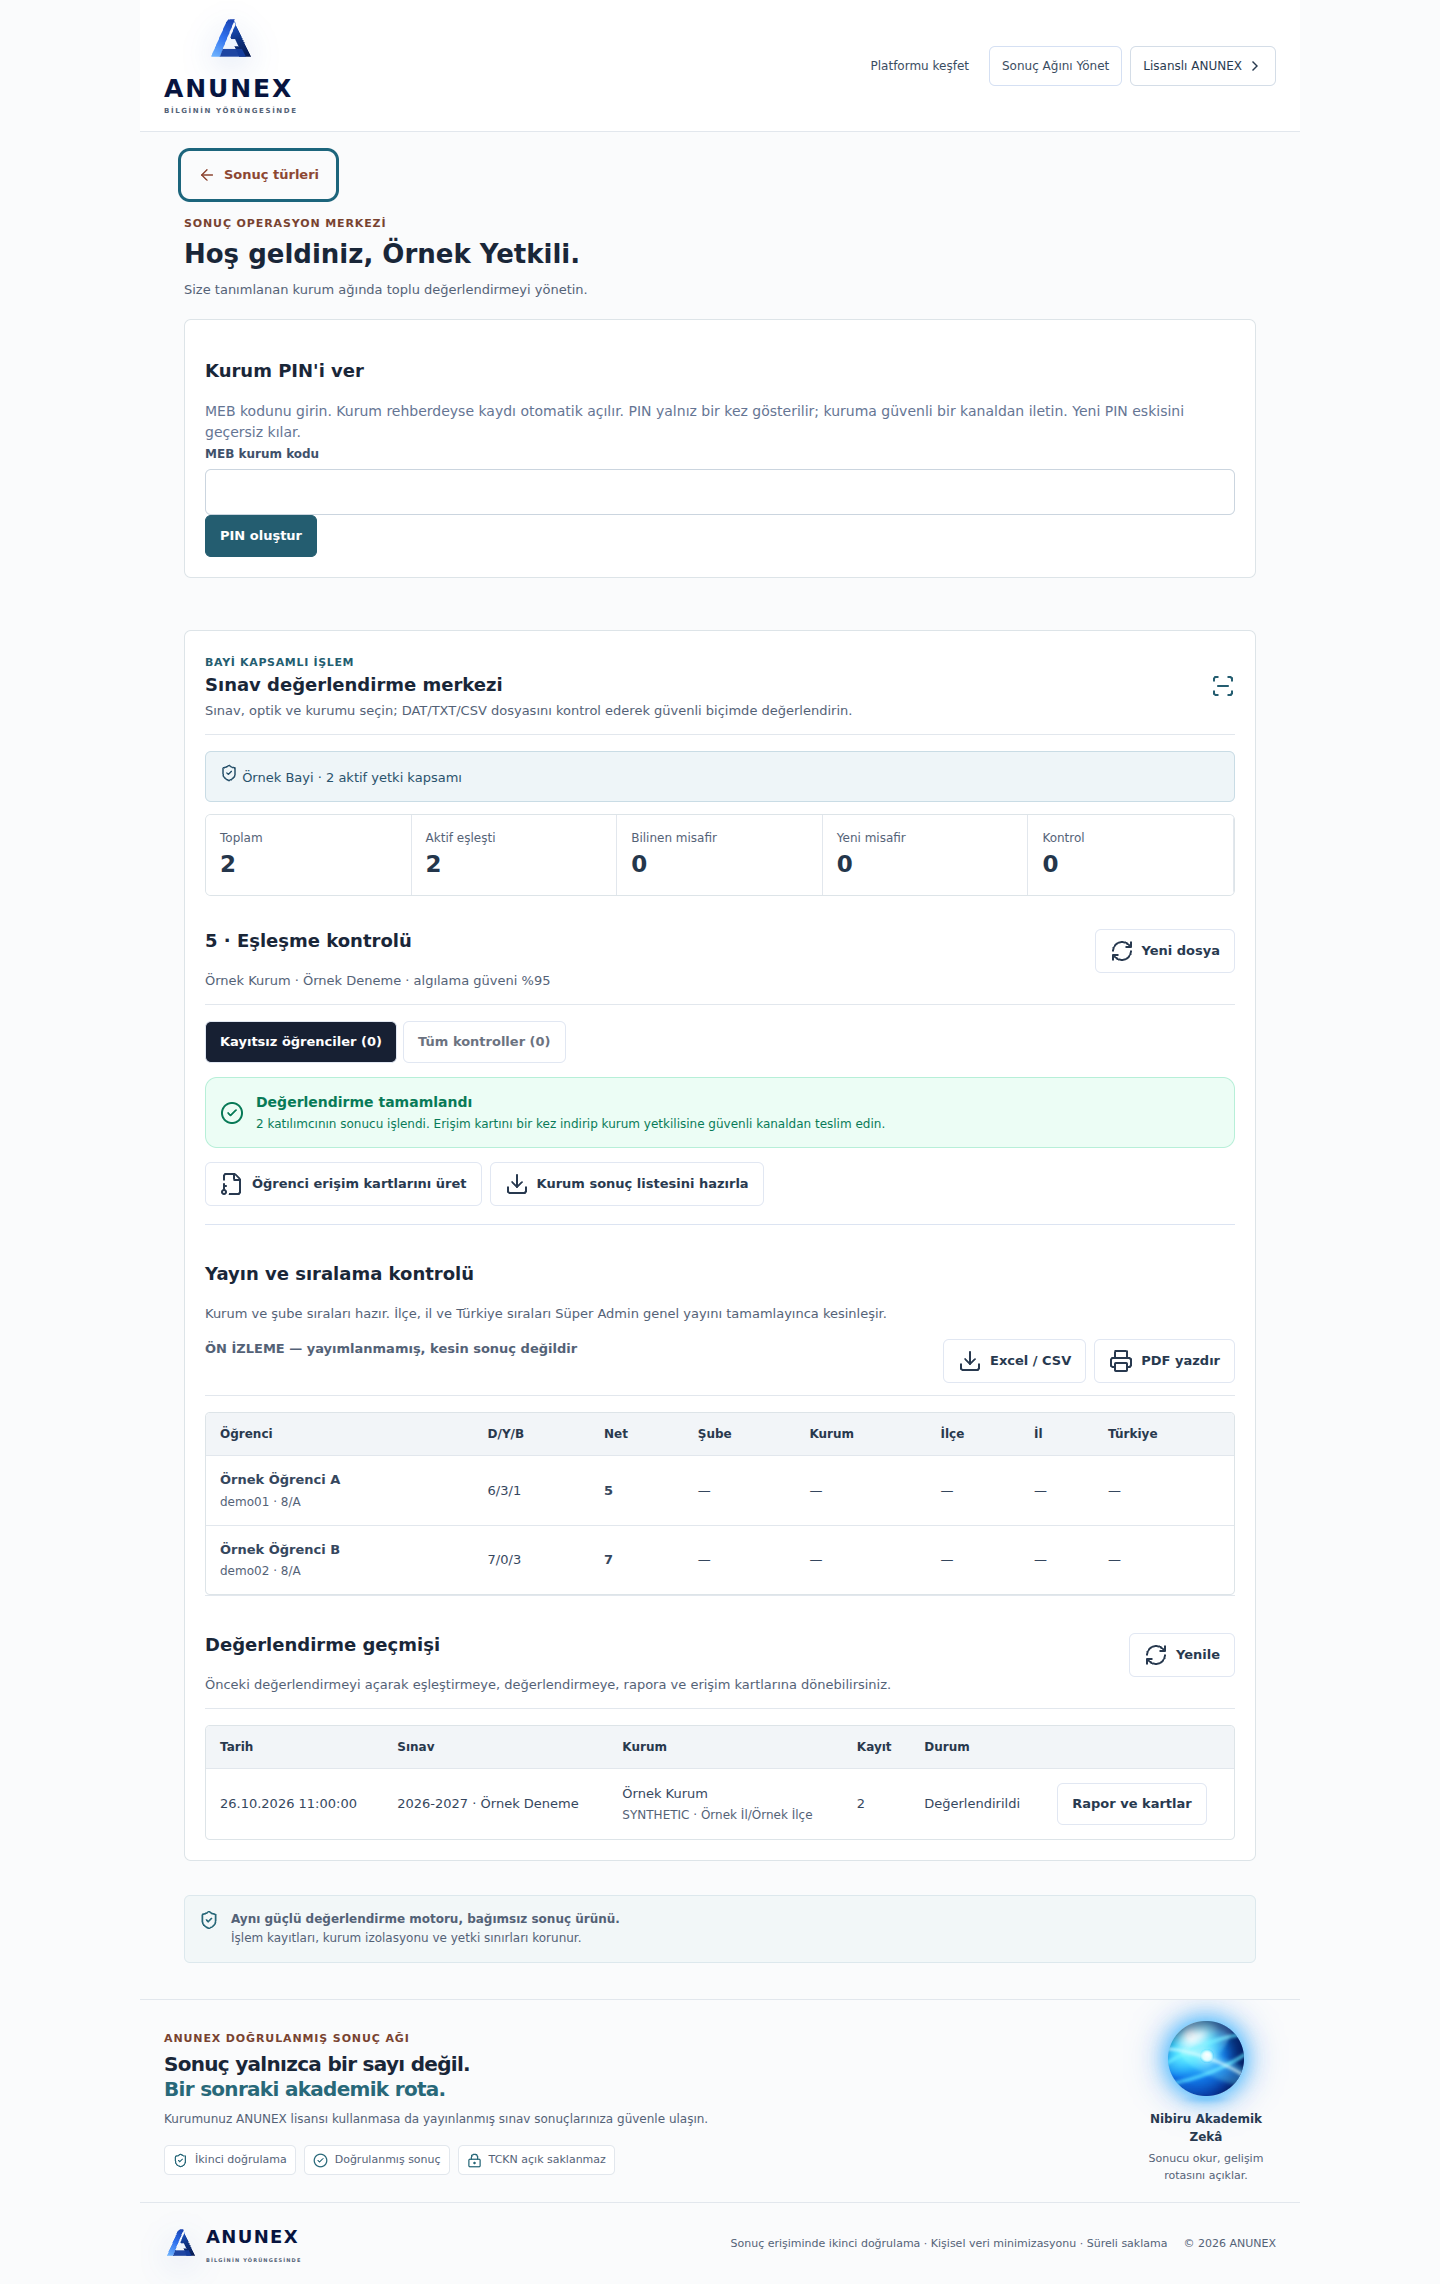
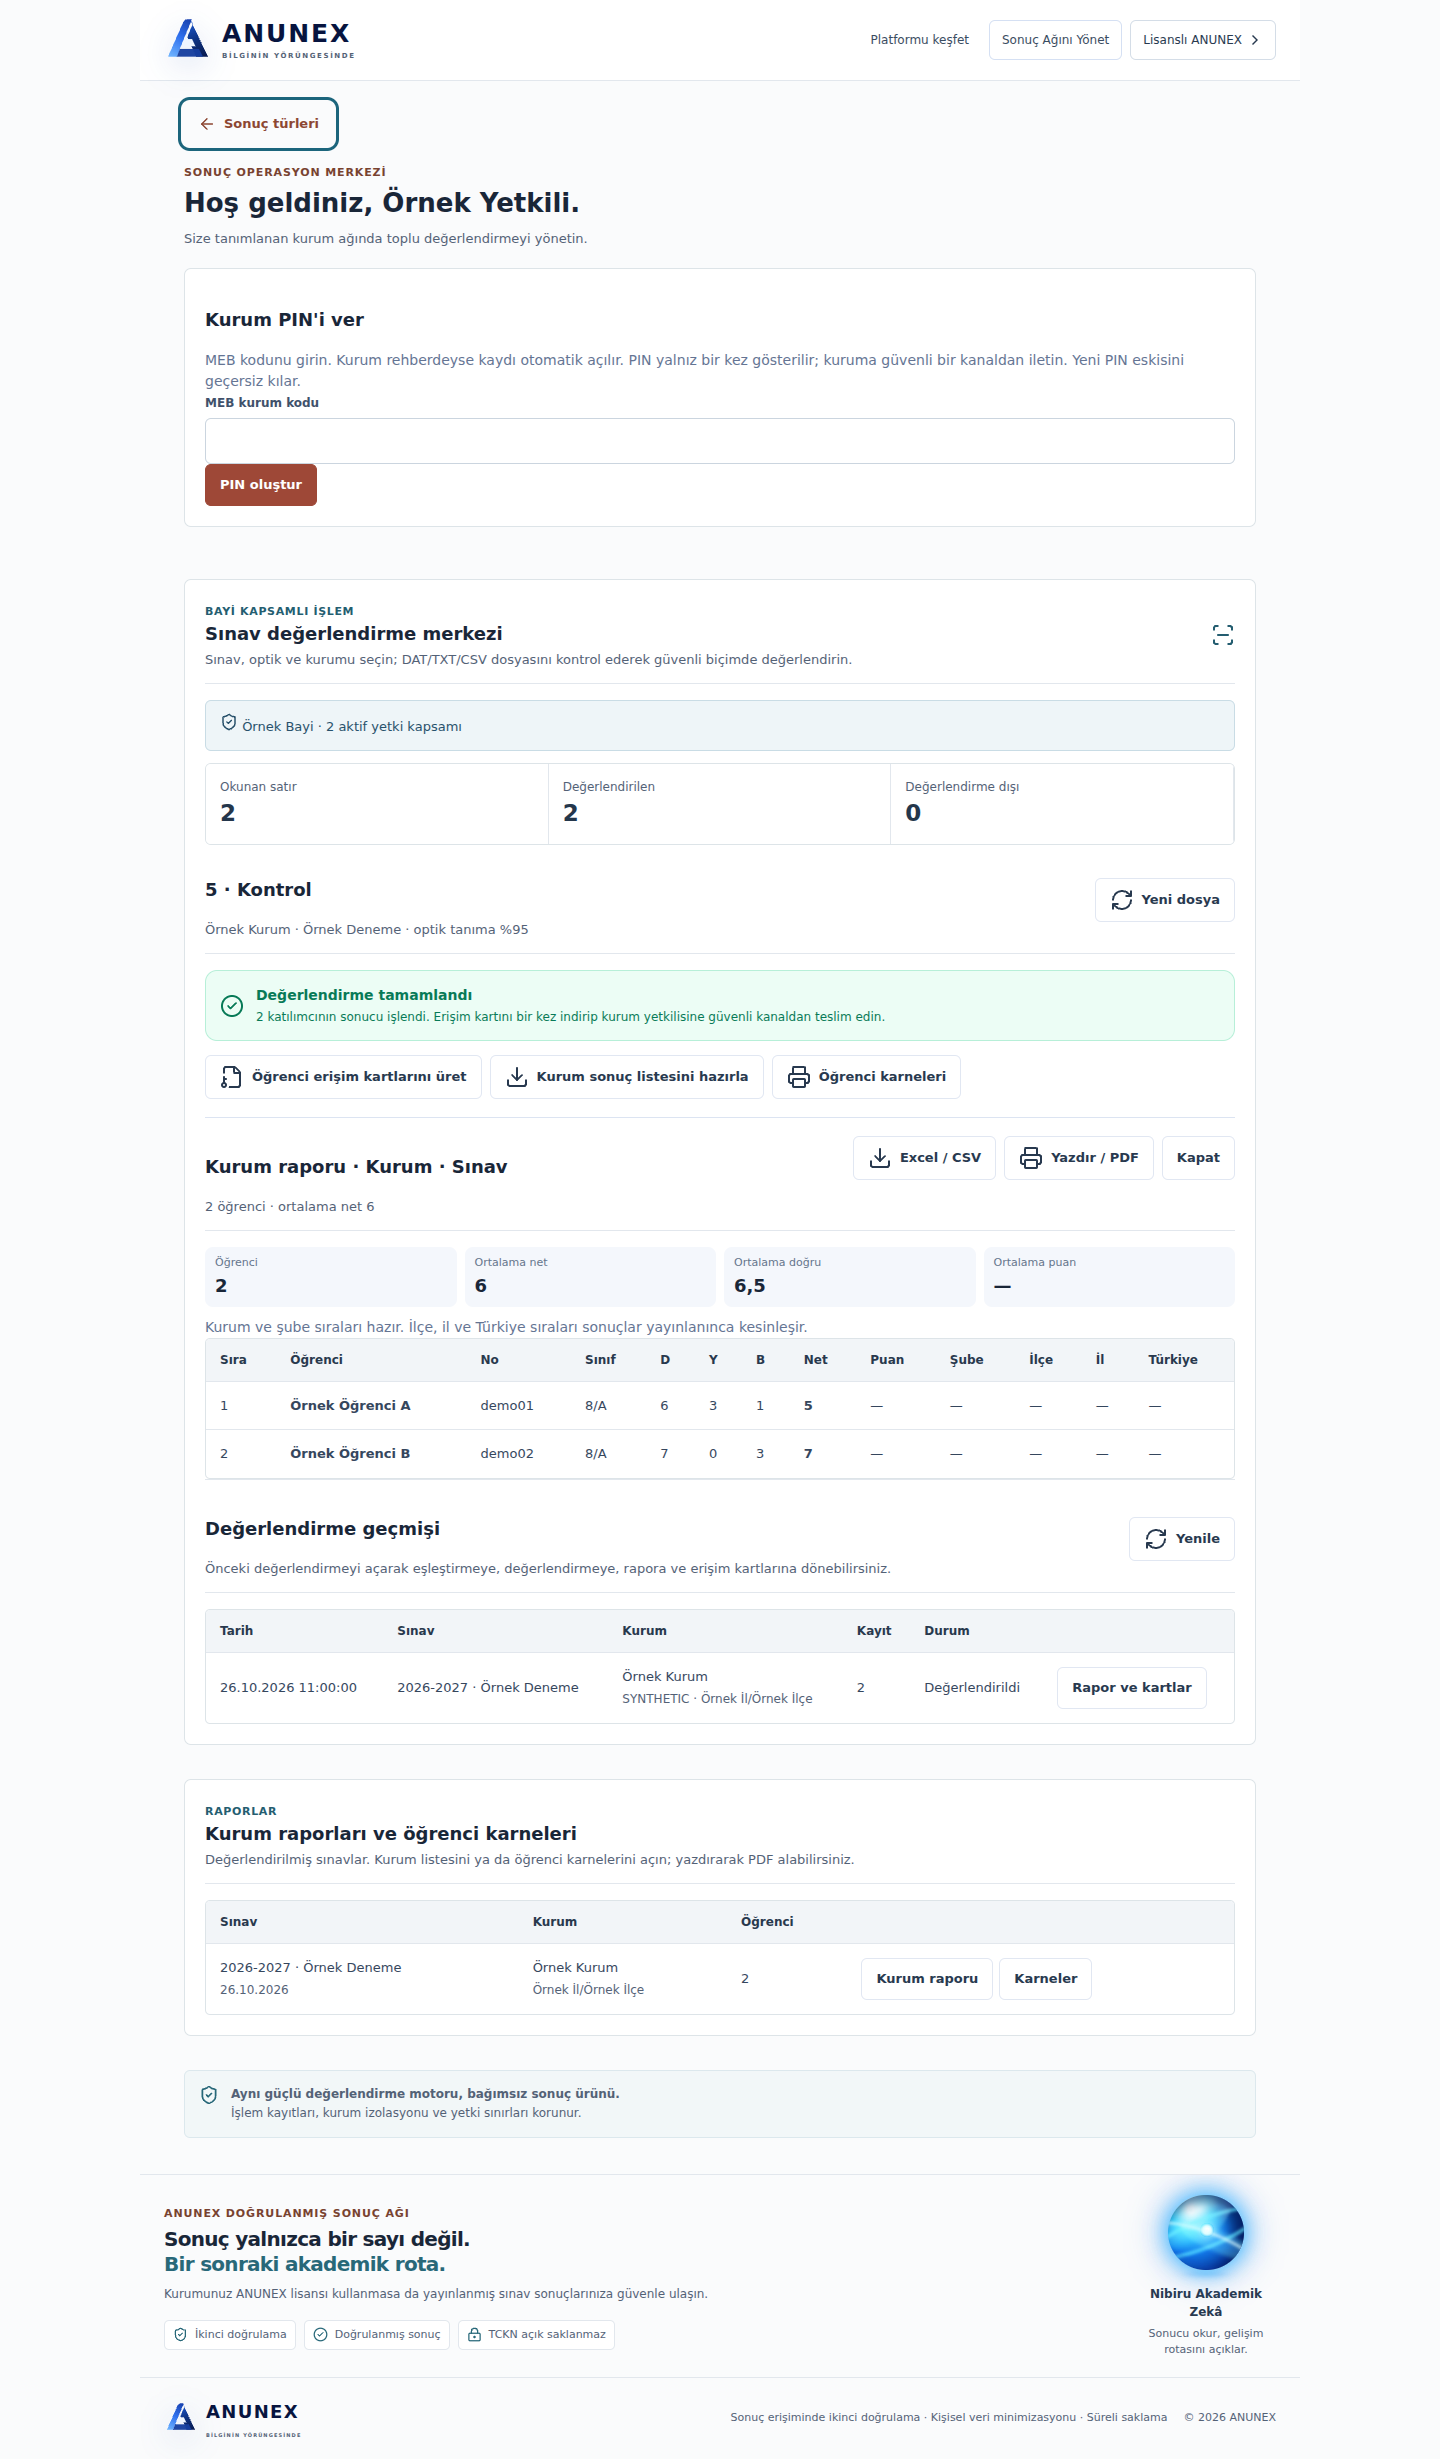
design(d007): Astra reference polish and current-main visual verification

diff --git a/src/pages/approved-result-dealer.css b/src/pages/approved-result-dealer.css
@@ -6,7 +6,7 @@
  .result-portal.approved-result-portal[data-result-role=DEALER]:not(.admin-portal-mode) .result-operator-login label { color:#394b60; font-size:13px; font-weight:500; gap:5px; }
  .result-portal.approved-result-portal[data-result-role=DEALER]:not(.admin-portal-mode) :is(input,select,textarea) { min-width:0; max-width:100%; min-height:46px; height:auto; margin-top:5px; padding:10px 12px; border:1px solid #cbd5df; border-radius:6px; background:#fff; color:#192638; font-size:14px; line-height:1.5; }
  .result-portal.approved-result-portal[data-result-role=DEALER]:not(.admin-portal-mode) input::placeholder { color:#5e6d82; opacity:1; }
- .result-portal.approved-result-portal[data-result-role=DEALER]:not(.admin-portal-mode) :is(input[type=checkbox],input[type=radio]) { width:20px; min-height:20px; height:20px; margin:0; padding:0; accent-color:#245d70; }
+ .result-portal.approved-result-portal[data-result-role=DEALER]:not(.admin-portal-mode) :is(input[type=checkbox],input[type=radio]) { width:20px; min-height:20px; height:20px; margin:0; padding:0; accent-color:#9e4837; }
  .result-portal.approved-result-portal[data-result-role=DEALER]:not(.admin-portal-mode) .operator-options { display:flex; align-items:center; flex-wrap:wrap; min-height:40px; gap:10px; font-size:13px; color:#536176; }
  .result-portal.approved-result-portal[data-result-role=DEALER]:not(.admin-portal-mode) .operator-options>span { min-height:40px; display:flex; align-items:center; gap:8px; }
  .result-portal.approved-result-portal[data-result-role=DEALER]:not(.admin-portal-mode) .operator-options a { min-height:40px; display:inline-flex; align-items:center; color:#82402c; font-size:13px; }
@@ -14,7 +14,7 @@
  .result-portal.approved-result-portal[data-result-role=DEALER]:not(.admin-portal-mode) .turnstile-heading { font-size:12px; font-weight:500; color:#394b60; }
  .result-portal.approved-result-portal[data-result-role=DEALER]:not(.admin-portal-mode) .password-toggle { min-height:40px; width:40px; padding:0; border:0; border-radius:5px; color:#394b60; background:transparent; }
  .result-portal.approved-result-portal[data-result-role=DEALER]:not(.admin-portal-mode) :is(button,.primary,.secondary,.ghost,.result-primary) { min-height:42px; border-radius:6px; padding:9px 14px; font-size:13px; font-weight:600; box-shadow:none; }
- .result-portal.approved-result-portal[data-result-role=DEALER]:not(.admin-portal-mode) :is(.primary,.result-primary) { background:#245d70 !important; border:1px solid #245d70; color:#fff; }
+ .result-portal.approved-result-portal[data-result-role=DEALER]:not(.admin-portal-mode) :is(.primary,.result-primary) { background:#9e4837 !important; border:1px solid #9e4837; color:#fff; }
  .result-portal.approved-result-portal[data-result-role=DEALER]:not(.admin-portal-mode) :is(.secondary,.ghost) { background:#fff; border:1px solid #d4dde7; color:#28394f; }
  .result-portal.approved-result-portal[data-result-role=DEALER]:not(.admin-portal-mode) :is(.secondary,.ghost):hover { background:#f4f7fa; }
  .result-portal.approved-result-portal[data-result-role=DEALER]:not(.admin-portal-mode) .result-operator-login .result-primary { min-height:46px; font-size:15px; }
@@ -44,7 +44,7 @@
  .result-portal.approved-result-portal[data-result-role=DEALER]:not(.admin-portal-mode) th { padding:12px 14px; background:#f2f5f8; color:#28384d; font-size:12px; font-weight:600; letter-spacing:0; text-transform:none; white-space:nowrap; }
  .result-portal.approved-result-portal[data-result-role=DEALER]:not(.admin-portal-mode) td { padding:14px; border-top:1px solid #e2e7ed; color:#35465d; font-size:13px; line-height:1.5; vertical-align:middle; }
  .result-portal.approved-result-portal[data-result-role=DEALER]:not(.admin-portal-mode) td small { color:#536176; font-size:12px; }
- .result-portal.approved-result-portal[data-result-role=DEALER]:not(.admin-portal-mode) .summary-strip { display:grid; grid-template-columns:repeat(5,minmax(0,1fr)); gap:0; border:1px solid #dde4e8; border-radius:6px; overflow:hidden; background:#fff; }
+ .result-portal.approved-result-portal[data-result-role=DEALER]:not(.admin-portal-mode) .summary-strip { display:grid; grid-template-columns:repeat(3,minmax(0,1fr)); gap:0; border:1px solid #dde4e8; border-radius:6px; overflow:hidden; background:#fff; }
  .result-portal.approved-result-portal[data-result-role=DEALER]:not(.admin-portal-mode) .summary { min-width:0; padding:14px; border:0; border-right:1px solid #e2e7ed; border-radius:0; box-shadow:none; }
  .result-portal.approved-result-portal[data-result-role=DEALER]:not(.admin-portal-mode) .summary span { color:#536176; font-size:12px; }
  .result-portal.approved-result-portal[data-result-role=DEALER]:not(.admin-portal-mode) .summary strong { color:#24364b; font-size:23px; font-weight:600; }
@@ -76,4 +76,4 @@
  }
 }
 
-@media screen { .result-portal.approved-result-portal[data-result-role=DEALER]:not(.admin-portal-mode) .institution-card-panel button.primary { background:#245d70 !important; border-color:#245d70; color:#fff; } }
+@media screen { .result-portal.approved-result-portal[data-result-role=DEALER]:not(.admin-portal-mode) .institution-card-panel button.primary { background:#9e4837 !important; border-color:#9e4837; color:#fff; } }

diff --git a/docs/design/approved-result-dealer/README.md b/docs/design/approved-result-dealer/README.md
@@ -13,13 +13,11 @@ Yalnız görünüm. Mevcut Türkçe metinler, erişim doğrulaması, state/effec
 - Mevcut rapor ön izlemesi kesin yayımlanmış sonuç gibi gösterilmez; eksik sıralama/puan sıfır yapılmaz.
 - Büyük tanıtım alanı küçültülür; seçilen rolün form/iş alanı öne alınır. Orijinal marka ve Nibiru varlıkları korunur.
 
-## Kapsam dışı teknik uyumsuzluk
+## Teknik eşgüdüm ve yayın
 
-Son karar: sonuç portalında genel öğrenci sicili eşleştirmesi istenmiyor; yalnız çift optikte eşleşmeyen kayıtlar istisna olabilir. Mevcut operasyon bileşeni genel MATCH/GUEST/CANCEL incelemesi içeriyor. Bu tasarım işi bunları kaldırmaz veya gizlemez; ayrı teknik düzeltme gerekir. Mevcut ağ yöneticisi yerleşimi de işleyiş değişikliği yapılmadan korunur. Öğrencinin sonuç erişim kodu doğrulaması bu eşleştirmeden farklıdır ve korunur.
+Bu tasarımlar güncel teknik ana dal 32bb3e622f3a5a2f48eef08607abdce1e9baee01 üzerine birlikte alınarak yeniden doğrulanır. S030/S031 teknik çalışmaları genel misafir adımını kaldırdı, kurum raporu/karneleri ve ayrı yazdırma akışını ekledi. Bu PR bu iş kurallarını değiştirmez. Eski rapor ekran görüntüleri güncel görüntülerle yenilenir; sentetik kontrol canlı veri veya fiziksel çıktı kanıtı değildir.
 
-## Yayın
-
-Normal app üretim dağıtımı, sonuç portalının dağıtıldığı anlamına gelmez. Mevcut `Deploy ANUNEX Result Network` iş akışı main dalından ayrıca çalıştırılmalı; önceden bağlı alan adı için `attach_domain=false`. Korunan `.github/` tetikleyicisi değiştirilmez.
+S031 ile sonuç portalı, başarılı `Deploy Production Cloudflare Worker` dağıtımını aynı commit üzerinden izler. Üretim ortamı onayı korunur. Sonuç portalının kendi `Deploy ANUNEX Result Network` çalışması başarıyla bitmeden portal canlı kabul edilmez. Tasarım işi `.github/` dosyalarına dokunmaz.
 
 ## Bu adım
 
@@ -30,3 +28,13 @@ Bayi: parola gösterme/gizleme, güvenlik alanı, yetki kapsamı, kurum seçici,
 Onaylı görsel: https://chatgpt.com/library?file_id=libfile_05f4c36fbf1881919d84d1283db0961d&account_id=personal
 
 Güncel ana dal 6c5579f22e6e850fb88bd783757099b357995a95 üzerinde typecheck/build ve 321 dosya / 1423 test geçti. Üç rol + uygulama kabuğu için toplam 42 sentetik tarayıcı senaryosu doğrulandı.
+
+## Astra son görsel incelemesi
+
+Onaylı üç referans ve mevcut görüntüler Astra tarafından incelendi. Orijinal marka yatay hizaya alındı; telefonda üç bağlantı kompakt ve 40 px hedeflerle korundu. Bayi ana işlemi onaylı sıcak vurgu rengine getirildi. Kurum/bayi özetleri yeni üçlü teknik yapıya uyarlandı. İşleyiş, metinler ve yetkiler değiştirilmedi.
+
+## Güncel ana dal kontrol notu
+
+32bb3e62 üzerinde typecheck/build geçti. Tam yerel koşu: 317 dosya başarılı, 5 dosyada 6 süre aşımı (toplam322 dosya/1427 test). Test dosyaları ve süre sınırları değiştirilmedi; ayrı tekrar yapıldı. Son merge için güncel PR GitHub verify kontrollerinin tamamının başarı koşulu korunur.
+
+S031 kurum raporunda önceki `reportSource` yayın/önizleme etiketi artık görünmüyor. Bu görünüm PR’si bunu değiştirmiyor; teknik inceleme gerektirir. Raporda yayın/önizleme ayrımının eksiksiz korunduğu iddia edilmez.
